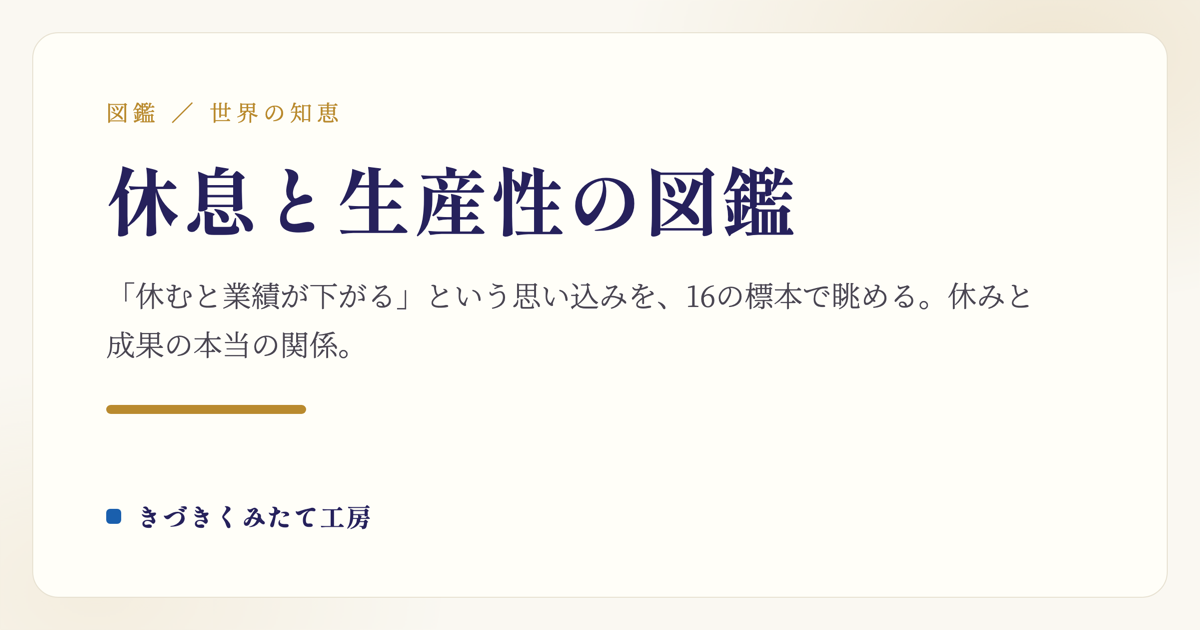
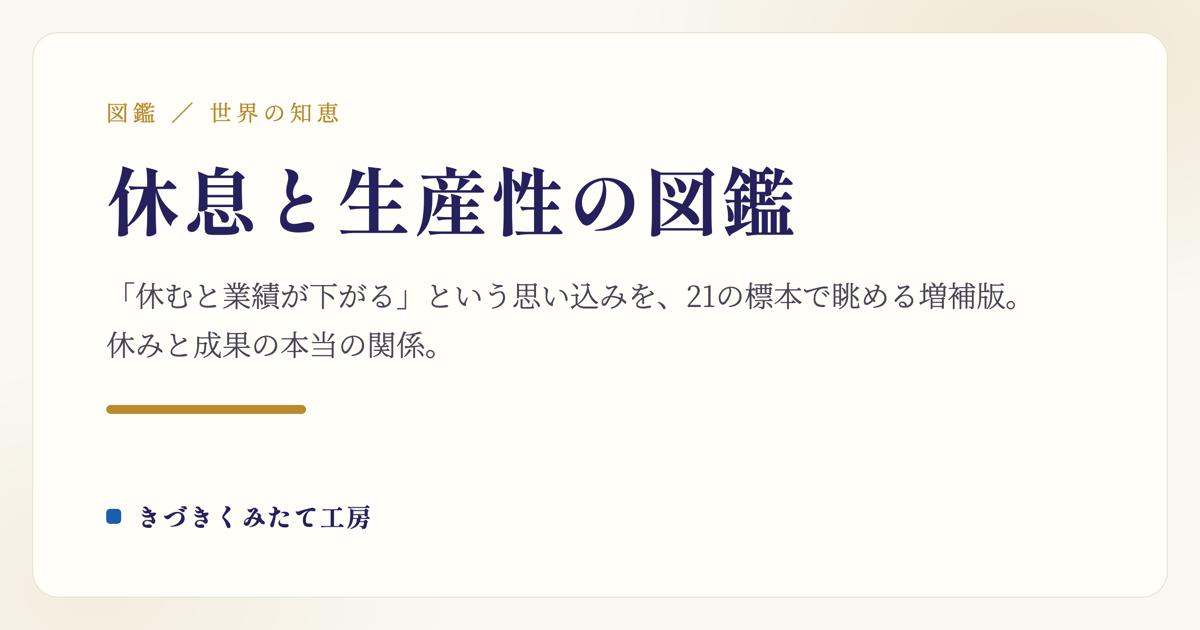
休息と生産性の図鑑を増補版に更新（21標本・国家の生態＋出典つき資料室）
- 区分5「国家の生態 ― 成長と余暇の綱引き」5標本＋凡例チップを追加
- 資料室（一時間あたり生産性・法定有給の出典つき棒グラフ2枚）を追加
- フィールドノートに国家スケールの総括を追記、meta/OGP/回遊文言を21標本に更新
- イラスト5枚追加（天秤の両替・濃さの器・法の床・一斉休業・静かな綱引き）
- 納品CSSの不具合を修正（.bar-fillのdisplay:block・値ラベルの折返し）

Changed region(s): [[0.0925, 0.5127, 0.37, 0.573], [0.7708, 0.4524, 0.8633, 0.5127], [0.555, 0.4524, 0.6167, 0.4825]]

diff --git a/rest-productivity-zukan.html b/rest-productivity-zukan.html
@@ -12,10 +12,10 @@
 <meta charset="UTF-8">
 <meta name="viewport" content="width=device-width, initial-scale=1.0">
 <title>休息と生産性の図鑑 ｜ きづきくみたて工房</title>
-<meta name="description" content="「休むと業績が下がる」という思い込みを、認知科学・組織論の16の標本として展示する図鑑。集中力の消耗から日本で休みにくい理由まで、休みと成果の本当の関係を眺める。">
+<meta name="description" content="「休むと業績が下がる」という思い込みを、認知科学・組織論の21の標本として展示する図鑑・増補版。集中力の消耗から日本で休みにくい理由、国家スケールの成長と余暇の綱引きまで、出典つきデータ標本とともに眺める。">
 <link rel="canonical" href="https://kizukikumitate.com/rest-productivity-zukan.html">
 <meta property="og:title" content="休息と生産性の図鑑｜きづきくみたて工房">
-<meta property="og:description" content="「休むと業績が下がる」という思い込みを、認知科学・組織論の16の標本として展示する図鑑。">
+<meta property="og:description" content="「休むと業績が下がる」という思い込みを、認知科学・組織論の21の標本として展示する図鑑・増補版。">
 <meta property="og:type" content="website">
 <meta property="og:url" content="https://kizukikumitate.com/rest-productivity-zukan.html">
 <meta property="og:image" content="https://kizukikumitate.com/rest-productivity-zukan-ogp.png">
@@ -23,7 +23,7 @@
 <meta property="og:image:height" content="630">
 <meta name="twitter:card" content="summary_large_image">
 <meta name="twitter:title" content="休息と生産性の図鑑｜きづきくみたて工房">
-<meta name="twitter:description" content="「休むと業績が下がる」思い込みを16の標本で眺める図鑑。休みと成果の本当の関係。">
+<meta name="twitter:description" content="「休むと業績が下がる」思い込みを21の標本で眺める図鑑・増補版。休みと成果の本当の関係。">
 <meta name="twitter:image" content="https://kizukikumitate.com/rest-productivity-zukan-ogp.png">
 <link rel="preconnect" href="https://fonts.googleapis.com">
 <link rel="preconnect" href="https://fonts.gstatic.com" crossorigin>
@@ -40,6 +40,7 @@
     --c-rest:#7a9a5b;    /* 休みの効き方 */
     --c-cost:#c26b52;    /* 組織のコスト */
     --c-japan:#9a6ba0;   /* 日本の生態 */
+    --c-macro:#3f4d8a;   /* 国家の生態 */
     --shadow:0 6px 20px rgba(60,50,30,.10);
     --forest:#1a5fad;
     --charcoal:#1e1e1e;
@@ -166,19 +167,43 @@
   .fieldnote .en{font-size:12px;color:var(--gold);letter-spacing:.2em;font-weight:700;}
   .fieldnote p{font-size:14.5px;margin:12px 0 0;color:#3f3b34;}
 
+  /* ---- Data room ---- */
+  .dataroom{
+    margin-top:52px;
+    display:grid;grid-template-columns:repeat(auto-fit,minmax(320px,1fr));gap:20px;
+  }
+  .datacard{
+    background:var(--paper2);border:1px solid var(--line);
+    border-radius:14px;padding:20px 22px;box-shadow:var(--shadow);
+  }
+  .datacard h3{margin:0 0 2px;font-size:17px;}
+  .datacard .unit{font-size:12px;color:var(--ink-soft);margin-bottom:16px;}
+  .bar-row{display:flex;align-items:center;gap:10px;margin:9px 0;font-size:13px;}
+  .bar-row .name{width:96px;flex:none;color:#3f3b34;}
+  .bar-row .name.hl{font-weight:700;color:var(--c-japan);}
+  .bar-track{flex:1;display:block;background:#ece3d0;border-radius:6px;height:16px;overflow:hidden;}
+  .bar-fill{display:block;height:100%;border-radius:6px;background:var(--barcolor,var(--c-macro));}
+  .bar-row .val{width:68px;flex:none;text-align:right;font-variant-numeric:tabular-nums;color:var(--ink-soft);white-space:nowrap;}
+  .datacard .note{font-size:12px;color:var(--ink-soft);margin-top:14px;line-height:1.6;}
+  .datacard .src{font-size:11px;color:var(--ink-soft);margin-top:8px;}
+  .datacard .src a{color:var(--gold);}
+
   .pagenote{
     text-align:center;margin-top:56px;color:var(--ink-soft);font-size:12.5px;
     border-top:1px solid var(--line);padding-top:22px;
   }
   .pagenote .disc{max-width:720px;margin:8px auto 0;line-height:1.7;}
 
-  /* ---- カードイラスト（Gemini生成・16標本） ---- */
+  /* ---- カードイラスト（Gemini生成・21標本） ---- */
   .card .card-fig{margin:2px 0 12px;border-radius:10px;overflow:hidden;border:1px solid var(--line);}
   .card .card-fig img{display:block;width:100%;height:auto;aspect-ratio:16/9;object-fit:cover;}
   .card .no{background:rgba(251,247,238,.88);padding:2px 8px;border-radius:999px;border:1px solid var(--line);}
-  header.book h1,.section-head h2,.fieldnote h2{text-wrap:pretty;}
+  header.book h1,.section-head h2,.fieldnote h2,.datacard h3{text-wrap:pretty;}
 
-  @media(max-width:359px){.grid{grid-template-columns:minmax(0,1fr);}}
+  @media(max-width:359px){
+    .grid{grid-template-columns:minmax(0,1fr);}
+    .dataroom{grid-template-columns:minmax(0,1fr);}
+  }
 
   @media(max-width:520px){
     .wrap{padding:28px 14px 60px;}
@@ -239,34 +264,6 @@ footer{padding:3rem 24px;text-align:center;background:#fff;border-top:1px solid 
     .nav-hamburger { display: flex; }
   }
 </style>
-<!-- ===== AI・検索エンジン向け構造化データ（Article） ===== -->
-<script type="application/ld+json">
-{
-  "@context": "https://schema.org",
-  "@type": "Article",
-  "headline": "休息と生産性の図鑑",
-  "url": "https://kizukikumitate.com/rest-productivity-zukan.html",
-  "image": "https://kizukikumitate.com/rest-productivity-zukan-ogp.png",
-  "datePublished": "2026-07-23",
-  "dateModified": "2026-07-23",
-  "author": {
-    "@type": "Person",
-    "@id": "https://kizukikumitate.com/#yasuhito-morimoto",
-    "name": "森本康仁",
-    "url": "https://kizukikumitate.com/jijitsu-daicho.html"
-  },
-  "publisher": {
-    "@type": "Organization",
-    "@id": "https://kizukikumitate.com/#org",
-    "name": "きづきくみたて工房",
-    "logo": {
-      "@type": "ImageObject",
-      "url": "https://kizukikumitate.com/logotype.png"
-    }
-  },
-  "license": "https://creativecommons.org/licenses/by-nc-sa/4.0/"
-}
-</script>
 </head>
 <body>
 <!-- NAV START -->
@@ -508,7 +505,7 @@ footer{padding:3rem 24px;text-align:center;background:#fff;border-top:1px solid 
 <div class="wrap">
 
   <header class="book">
-    <div class="plate-no">巻ノ壱 ／ 全16標本 収録</div>
+    <div class="plate-no">増補版 ／ 全21標本 収録</div>
     <h1>休息と生産性の図鑑</h1>
     <div class="sub">「休むと業績が下がる」という思い込みを、認知科学・組織論の“標本”として並べてみる。よく見ると、休みと成果はそんなに単純な関係ではない。</div>
     <div class="ribbon">🔎 標本をなでると少し浮きます</div>
@@ -519,11 +516,12 @@ footer{padding:3rem 24px;text-align:center;background:#fff;border-top:1px solid 
     <div class="chip"><span class="dot" style="background:var(--c-rest)"></span>休みの効き方</div>
     <div class="chip"><span class="dot" style="background:var(--c-cost)"></span>組織のコスト</div>
     <div class="chip"><span class="dot" style="background:var(--c-japan)"></span>日本の生態</div>
+    <div class="chip"><span class="dot" style="background:var(--c-macro)"></span>国家の生態</div>
   </div>
 
   <!-- ===== 区分1：脳と体のしくみ ===== -->
   <div class="section-head">
-    <span class="kanban" style="background:var(--c-brain)">区分 壱</span>
+    <span class="kanban" style="background:var(--c-brain)">区分 1</span>
     <h2>脳と体のしくみ</h2>
     <span class="en">COGNITIVE SCIENCE</span>
     <span class="rule"></span>
@@ -541,7 +539,7 @@ footer{padding:3rem 24px;text-align:center;background:#fff;border-top:1px solid 
 
     <div class="card" style="--cardcolor:var(--c-brain)">
       <span class="no">No.02</span>
-      <figure class="card-fig"><img src="./images/rest-productivity/02-rest.webp" alt="眠る人物の上に借金のように積み上がる重い荷物" width="1600" height="900" loading="lazy"></figure>
+      <figure class="card-fig"><img src="./images/rest-productivity/02-rest.webp" alt="眠る人物のそばに借金のように積み上がる重い荷物" width="1600" height="900" loading="lazy"></figure>
       <h3>睡眠負債</h3>
       <div class="latin">Debitum somni</div>
       <p>足りない睡眠は“借金”のように積み上がり、集中・記憶・気分をじわじわ削る。本人は慣れて気づきにくいのがやっかいなところ。</p>
@@ -570,7 +568,7 @@ footer{padding:3rem 24px;text-align:center;background:#fff;border-top:1px solid 
 
   <!-- ===== 区分2：休みの効き方 ===== -->
   <div class="section-head">
-    <span class="kanban" style="background:var(--c-rest)">区分 弐</span>
+    <span class="kanban" style="background:var(--c-rest)">区分 2</span>
     <h2>休みの効き方</h2>
     <span class="en">HOW REST WORKS</span>
     <span class="rule"></span>
@@ -617,7 +615,7 @@ footer{padding:3rem 24px;text-align:center;background:#fff;border-top:1px solid 
 
   <!-- ===== 区分3：組織のコスト ===== -->
   <div class="section-head">
-    <span class="kanban" style="background:var(--c-cost)">区分 参</span>
+    <span class="kanban" style="background:var(--c-cost)">区分 3</span>
     <h2>組織のコスト</h2>
     <span class="en">HIDDEN COSTS</span>
     <span class="rule"></span>
@@ -664,7 +662,7 @@ footer{padding:3rem 24px;text-align:center;background:#fff;border-top:1px solid 
 
   <!-- ===== 区分4：日本の生態 ===== -->
   <div class="section-head">
-    <span class="kanban" style="background:var(--c-japan)">区分 肆</span>
+    <span class="kanban" style="background:var(--c-japan)">区分 4</span>
     <h2>日本の生態 ― なぜ休みにくいのか</h2>
     <span class="en">JAPANESE HABITAT</span>
     <span class="rule"></span>
@@ -709,16 +707,152 @@ footer{padding:3rem 24px;text-align:center;background:#fff;border-top:1px solid 
 
   </div>
 
+  <!-- ===== 区分5：国家の生態 ===== -->
+  <div class="section-head">
+    <span class="kanban" style="background:var(--c-macro)">区分 5</span>
+    <h2>国家の生態 ― 成長と余暇の綱引き</h2>
+    <span class="en">MACRO ／ NATIONS</span>
+    <span class="rule"></span>
+  </div>
+  <div class="grid">
+
+    <div class="card" style="--cardcolor:var(--c-macro)">
+      <span class="no">No.17</span>
+      <figure class="card-fig"><img src="./images/rest-productivity/17-rest.webp" alt="金貨とハンモックの休息が釣り合う大きな天秤" width="1600" height="900" loading="lazy"></figure>
+      <h3>余暇への“両替”</h3>
+      <div class="latin">Permutatio otii</div>
+      <p>欧州は1970年代以降、生産性の果実を「より多い所得」ではなく「より多い休み」に振り向けた。一人あたりGDPが米国より低めなのは、失敗ではなく選択の面が大きい。</p>
+      <div class="memo"><b>生態メモ：</b>「成長できなかった」ではなく「成長の一部を自由時間に両替した」。</div>
+    </div>
+
+    <div class="card" style="--cardcolor:var(--c-macro)">
+      <span class="no">No.18</span>
+      <figure class="card-fig"><img src="./images/rest-productivity/18-rest.webp" alt="小さいが濃い金色の器と、大きいが薄い色の器" width="1600" height="900" loading="lazy"></figure>
+      <h3>時間あたりの“濃さ”</h3>
+      <div class="latin">Densitas horaria</div>
+      <p>仏・独・北欧は労働時間が短いのに、一時間あたり生産性が非常に高く米国に匹敵する。だから休みを増やしても、産出の落ち込みは素朴な計算ほど大きくならない。</p>
+      <div class="memo"><b>生態メモ：</b>「短く働くが、一時間が濃い」。休みの目減りを生産性が埋める。</div>
+    </div>
+
+    <div class="card" style="--cardcolor:var(--c-macro)">
+      <span class="no">No.19</span>
+      <figure class="card-fig"><img src="./images/rest-productivity/19-rest.webp" alt="同じ高さの金色の台の上に並んで立つ人々" width="1600" height="900" loading="lazy"></figure>
+      <h3>抜け駆け問題を法で解く</h3>
+      <div class="latin">Lex contra defectionem</div>
+      <p>EUは最低4週間の有給休暇という法の“床”を全社に一律に課す（仏は法定5週間）。全員が同じなら「うちだけ休ませると不利」という抜け駆けの心配が消える。</p>
+      <div class="memo"><b>生態メモ：</b>各社任せだと“みんな休まないから休めない”悪い均衡に落ちる。</div>
+    </div>
+
+    <div class="card" style="--cardcolor:var(--c-macro)">
+      <span class="no">No.20</span>
+      <figure class="card-fig"><img src="./images/rest-productivity/20-rest.webp" alt="扉を閉じた建物の並びと、海辺のパラソルで休む人々" width="1600" height="900" loading="lazy"></figure>
+      <h3>一斉休業（8月まるごと）</h3>
+      <div class="latin">Clausura communis</div>
+      <p>南欧に典型的な「経済ごと止まる夏」。取引先も競合も同時に休むので、「休む間に顧客を奪われる」不安が構造的に小さくなる。</p>
+      <div class="memo"><b>生態メモ：</b>全員同時に休むと、休みの調整コストが下がる。</div>
+    </div>
+
+    <div class="card" style="--cardcolor:var(--c-macro)">
+      <span class="no">No.21</span>
+      <figure class="card-fig"><img src="./images/rest-productivity/21-rest.webp" alt="成長の曲線とパラソルの間で綱を引き合う人々" width="1600" height="900" loading="lazy"></figure>
+      <h3>成長 vs 余暇のトレードオフ</h3>
+      <div class="latin">Trames incrementi</div>
+      <p>近年、欧州は米国に成長で見劣りし、高齢化も進む。2024年のドラギ報告は緩やかな衰退に警鐘を鳴らし、長い休暇が競争力の重荷では、という議論も噴出している。</p>
+      <div class="memo"><b>生態メモ：</b>「休みすぎは重荷では」という問いは、欧州でも今まさに争われている論点。</div>
+    </div>
+
+  </div>
+
+  <!-- ===== 資料室 ===== -->
+  <div class="section-head">
+    <span class="kanban" style="background:var(--gold)">資料室</span>
+    <h2>出典つきデータ標本</h2>
+    <span class="en">DATA ROOM</span>
+    <span class="rule"></span>
+  </div>
+  <div class="dataroom">
+
+    <div class="datacard">
+      <h3>① 一時間あたりの生産性</h3>
+      <div class="unit">GDP per hour worked ／ 2023年・USD（購買力平価）</div>
+
+      <div class="bar-row">
+        <span class="name">デンマーク</span>
+        <span class="bar-track"><span class="bar-fill" style="width:97%;--barcolor:var(--c-macro)"></span></span>
+        <span class="val">99.2</span>
+      </div>
+      <div class="bar-row">
+        <span class="name">アメリカ</span>
+        <span class="bar-track"><span class="bar-fill" style="width:95%;--barcolor:var(--c-macro)"></span></span>
+        <span class="val">97.1</span>
+      </div>
+      <div class="bar-row">
+        <span class="name">ドイツ</span>
+        <span class="bar-track"><span class="bar-fill" style="width:92%;--barcolor:var(--c-macro)"></span></span>
+        <span class="val">93.8</span>
+      </div>
+      <div class="bar-row">
+        <span class="name">フランス</span>
+        <span class="bar-track"><span class="bar-fill" style="width:86%;--barcolor:var(--c-macro)"></span></span>
+        <span class="val">88.2</span>
+      </div>
+      <div class="bar-row">
+        <span class="name hl">日本</span>
+        <span class="bar-track"><span class="bar-fill" style="width:55%;--barcolor:var(--c-japan)"></span></span>
+        <span class="val">56.3</span>
+      </div>
+
+      <div class="note">デンマークは労働時間が短いのに、一時間あたりでは米国をわずかに上回る。仏・独も米国の9割超の“濃さ”。一方、労働時間が長いとされる日本は米国の約6割にとどまり、「長く働く＝一時間が濃い」ではないことがうかがえます。</div>
+      <div class="src">出典：OECD／<a href="https://en.wikipedia.org/wiki/List_of_countries_by_labour_productivity" target="_blank" rel="noopener">List of countries by labour productivity（2023年値）</a></div>
+    </div>
+
+    <div class="datacard">
+      <h3>② 法定の年間有給休暇（最低）</h3>
+      <div class="unit">Statutory minimum paid annual leave ／ 祝日を除く付与日数</div>
+
+      <div class="bar-row">
+        <span class="name">フランス</span>
+        <span class="bar-track"><span class="bar-fill" style="width:100%;--barcolor:var(--c-rest)"></span></span>
+        <span class="val">25日</span>
+      </div>
+      <div class="bar-row">
+        <span class="name">EU最低基準</span>
+        <span class="bar-track"><span class="bar-fill" style="width:80%;--barcolor:var(--c-rest)"></span></span>
+        <span class="val">20日</span>
+      </div>
+      <div class="bar-row">
+        <span class="name">ドイツ</span>
+        <span class="bar-track"><span class="bar-fill" style="width:80%;--barcolor:var(--c-rest)"></span></span>
+        <span class="val">20日〜</span>
+      </div>
+      <div class="bar-row">
+        <span class="name hl">日本</span>
+        <span class="bar-track"><span class="bar-fill" style="width:40%;--barcolor:var(--c-japan)"></span></span>
+        <span class="val">10→20日</span>
+      </div>
+      <div class="bar-row">
+        <span class="name">アメリカ</span>
+        <span class="bar-track"><span class="bar-fill" style="width:2%;--barcolor:var(--c-cost)"></span></span>
+        <span class="val">0日</span>
+      </div>
+
+      <div class="note">EUは労働時間指令で最低4週間（20日）を全加盟国に義務づけ、仏は法定5週間（25日）。日本は勤続0.5年で10日、6.5年で最大20日に増える。米国は連邦・州とも法定なしで、実務上の平均は約10日。</div>
+      <div class="src">出典：EU労働時間指令／各国労働法、<a href="https://www.oysterhr.com/library/which-country-gets-the-most-vacation-days" target="_blank" rel="noopener">Oyster「Paid vacation days by country 2025」</a></div>
+    </div>
+
+  </div>
+
   <!-- ===== フィールドノート ===== -->
   <div class="fieldnote">
     <div class="en">FIELD NOTE ／ 観察者の総括</div>
     <h2>この図鑑から読めること</h2>
-    <p>並べてみると、「休むと成果が下がる」という思い込みは、人間の脳のしくみ（区分壱・弐）ともむしろ逆であることが見えてきます。休息は止まる時間ではなく、集中力を充電し、発想を熟成させるメンテナンス時間。削れば本番のパフォーマンスがかえって落ち、プレゼンティーズムや燃え尽きといった“見えないコスト”（区分参）として組織に返ってきます。</p>
-    <p>それでも日本で休みにくいのは、意志の弱さではなく、仕事の属人化・姿勢を測る評価・同調圧力という三つの生態（区分肆）が絡み合っているから。だから近年の休み方改革は「有給を取ろう」と呼びかけるだけでなく、業務の標準化やチーム化、成果ベースの評価といった“構造そのもの”の手入れとセットで語られるようになっています。休みやすさは、根性ではなく設計で作られる ― それがこの図鑑の結論です。</p>
+    <p>並べてみると、「休むと成果が下がる」という思い込みは、人間の脳のしくみ（区分1・2）ともむしろ逆であることが見えてきます。休息は止まる時間ではなく、集中力を充電し、発想を熟成させるメンテナンス時間。削れば本番のパフォーマンスがかえって落ち、プレゼンティーズムや燃え尽きといった“見えないコスト”（区分3）として組織に返ってきます。</p>
+    <p>それでも日本で休みにくいのは、意志の弱さではなく、仕事の属人化・姿勢を測る評価・同調圧力という三つの生態（区分4）が絡み合っているから。だから近年の休み方改革は「有給を取ろう」と呼びかけるだけでなく、業務の標準化やチーム化、成果ベースの評価といった“構造そのもの”の手入れとセットで語られるようになっています。休みやすさは、根性ではなく設計で作られる ― それがこの図鑑の結論です。</p>
+    <p>そして国家のスケール（区分5）まで引くと、「1か月の休み」は成長への単純な損失ではなく、生産性の果実を余暇に“両替”するという社会の選択として立ち上がってきます。欧州はその両替を法の床と一斉休業で支え、高い時間あたり生産性で埋め合わせてきました。もっとも、成長 vs 余暇の綱引きは今も決着しておらず、「休みすぎは重荷では」という直感は、欧州自身が抱える現在進行形の論争でもあります。どこで線を引くかは、正解のない価値判断 ― この図鑑は、その判断材料を並べた標本箱です。</p>
   </div>
 
   <div class="pagenote">
-    <div>📖 休息と生産性の図鑑 ／ 全16標本</div>
+    <div>📖 休息と生産性の図鑑 ／ 増補版 全21標本</div>
     <div class="disc">※本図鑑は、認知科学・労働経済・組織論で広く語られている考え方を、一般的な理解にもとづいて図鑑風にまとめた読み物です。ラテン語風の学名は雰囲気づくりの創作で、統計値の詳細は分野や調査により幅があります。特定の数字が必要な場合は出典つきで別途お調べできます。</div>
   </div>
 